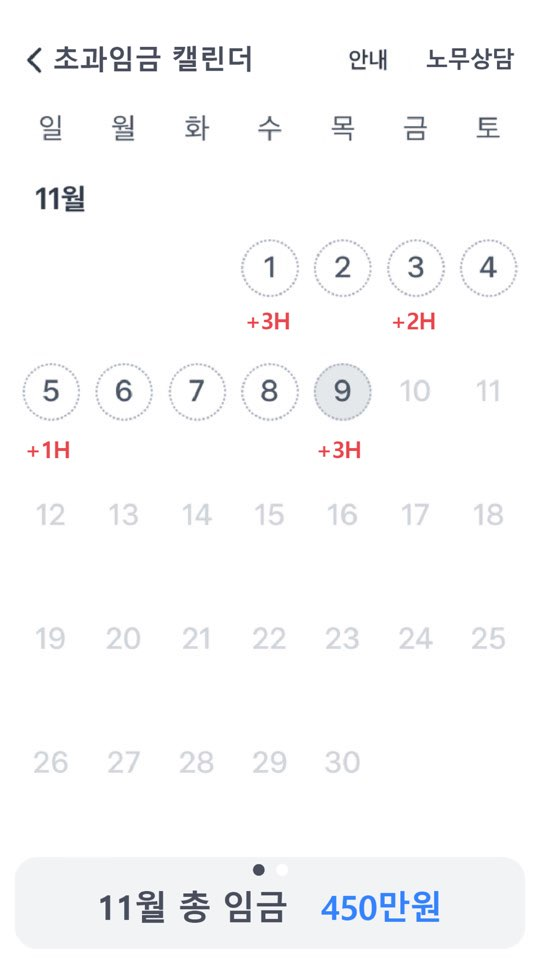
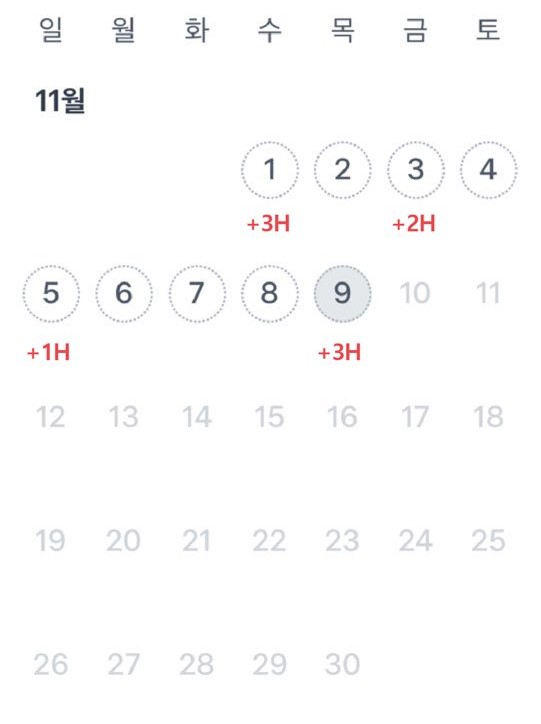
달력 어느정도 생활편의 시작

diff --git a/front/src/newdesign/main_page/cal/cal.css b/front/src/newdesign/main_page/cal/cal.css
@@ -1,15 +1,56 @@
-#cal h2 {
-  text-align: left;
+#cal h3 {
+  align-items: center;
   display: inline;
   margin-left: 20px;
+  margin-right: 140px;
   float: left;
 }
 
-#cal a {
-  margin-left: 10px;
+#cal #main_tag a {
+  margin: 0 15px;
   font-weight: bold;
 }
 
 #cal img {
   width: 432px;
+}
+
+#cal #usual_wage{
+  margin-left: 2%;
+  width: 96%;
+  height: 80px;
+  background-color: rgb(236, 236, 236);
+  border-radius: 6px;
+
+  font-size: 26px;
+  font-weight: 600;
+
+  display: flex;
+  align-items: center;
+  justify-content: center;
+}
+
+#cal #usual_wage a:nth-child(2){
+  margin-left: 30px;
+  color: rgb(83, 83, 255);
+}
+
+#cal #over_wage{
+  margin-left: 2%;
+  width: 96%;
+  height: 80px;
+  background-color: rgb(236, 236, 236);
+  border-radius: 6px;
+
+  font-size: 25px;
+  font-weight: 600;
+
+  display: flex;
+  align-items: center;
+  justify-content: center;
+}
+
+#cal #over_wage a:nth-child(2){
+  margin-left: 20px;
+  color: rgb(255, 83, 83);
 }

diff --git a/front/src/newdesign/main_page/life/life.js b/front/src/newdesign/main_page/life/life.js
@@ -14,14 +14,14 @@ function Life(){
         <div id ="life">
             <h3>생활 편의</h3>
             <div id="main_life">
-                <img src={mobile}/>
-                <img src={exp_bus}/>
-                <img src={utility}/>
-                <img src={trans}/>
-                <img src={exch_get}/>
-                <img src={hotel}/>
-                <img src={plane}/>
-                <img src={travle}/>
+                <div><img src={mobile}/></div>
+                <div><img src={exp_bus}/></div>
+                <div><img src={utility}/></div>
+                <div><img src={trans}/></div>
+                <div><img src={exch_get}/></div>
+                <div><img src={hotel}/></div>
+                <div><img src={plane}/></div>
+                <div><img src={travle}/></div>
             </div>
         </div>
     )

diff --git a/front/src/newdesign/Main2.js b/front/src/newdesign/Main2.js
@@ -1,8 +1,6 @@
 import "./Main2.css";
 import React,{useState} from "react";
 
-import arrow2 from "../png/arrow2.png";
-
 import bell from "../png/main_img/bell.png";
 import menu from "../png/main_img/menu.png";
 import mypage from "../png/main_img/mypage.png";
@@ -19,11 +17,6 @@ import exch_ico from "../png/main_img/dollor_send.png";
 import life_ico from "../png/6/life.png";
 import cal_ico from "../png/cal_ico.png";
 import event_ico from "../png/bot_nav_img/event.png";
-
-import t2 from "./t2.jpg";
-
-import cal from "../png/cal.jpg";
-
 
 function Main({ setPoped }) {
   function topmenu() {

diff --git a/front/src/newdesign/Main2.css b/front/src/newdesign/Main2.css
@@ -26,20 +26,25 @@
   align-items: center;
 }
 .TopNav2 li #menuimg {
-  height: 36px;
+  height: 40px;
   margin-left: 15px;
 }
 .TopNav2 li #bellimg {
-  height: 34px;
-  margin-left: 10px;
+  height: 40px;
+  margin-left: 12px;
 }
 .TopNav2 #mypageimg {
-  height: 35px;
-  margin-left: 235px;
+  height: 40px;
+  margin-left: 210px;
 }
 .TopNav2 li #main_setting_ico {
-  height: 38px;
-  margin-left: 10px;
+  height: 45px;
+  margin-left: 12px;
+}
+
+#main_tag{
+  display: flex;
+  align-items: center;
 }
 
 

diff --git a/front/src/newdesign/main_page/cal/cal.js b/front/src/newdesign/main_page/cal/cal.js
@@ -5,10 +5,14 @@ import cal from "../../../png/cal.jpg";
 function Cal() {
   return (
     <div id="cal">
-      <h2>임금 캘린더</h2>
-      <a>안내</a>
-      <a>노무상담</a>
+      <div id ="main_tag">
+        <h3>임금 캘린더</h3>
+        <a>안내</a>
+        <a>노무상담</a>
+      </div>
       <img src={cal} />
+      <div id="usual_wage"><a>11월 총 임금</a><a>450만원</a></div>
+      <div id="over_wage"><a>11월 초과근로수당</a><a>35만원</a></div>
     </div>
   );
 }

diff --git a/front/src/newdesign/main_page/life/life.css b/front/src/newdesign/main_page/life/life.css
@@ -3,5 +3,19 @@
     margin-left: 20px;
 }
 
-#life img{
+#main_life{
+    display: grid;
+    grid-template-columns: 1fr 1fr;
+}
+
+#main_life div{
+    display: flex;
+    justify-content: center;
+}
+
+#main_life img{
+    border-radius: 10px;
+    background-color: rgb(194, 231, 255);
+    /* width: 120px;
+    height: 120px; */
 }

diff --git a/front/src/newdesign/main_page/wallet/Wallet.js b/front/src/newdesign/main_page/wallet/Wallet.js
@@ -15,7 +15,7 @@ import line4 from "./mainimg/forthline.JPG";
 function Wallet(){
     return(
         <div id="wallet">
-            <h3>지갑</h3>
+            <div id ="main_tag"><h3>지갑</h3></div>
             <div className="hiuser">
             <img id="coun" src={coun}></img>
             <p>

diff --git a/front/src/newdesign/main_page/wallet/wallet.css b/front/src/newdesign/main_page/wallet/wallet.css
@@ -5,8 +5,8 @@
 }
 
 #wallet h3 {
-  text-align: left;
   margin-left: 20px;
+  text-align: left;
 }
 
 /* hi user */
